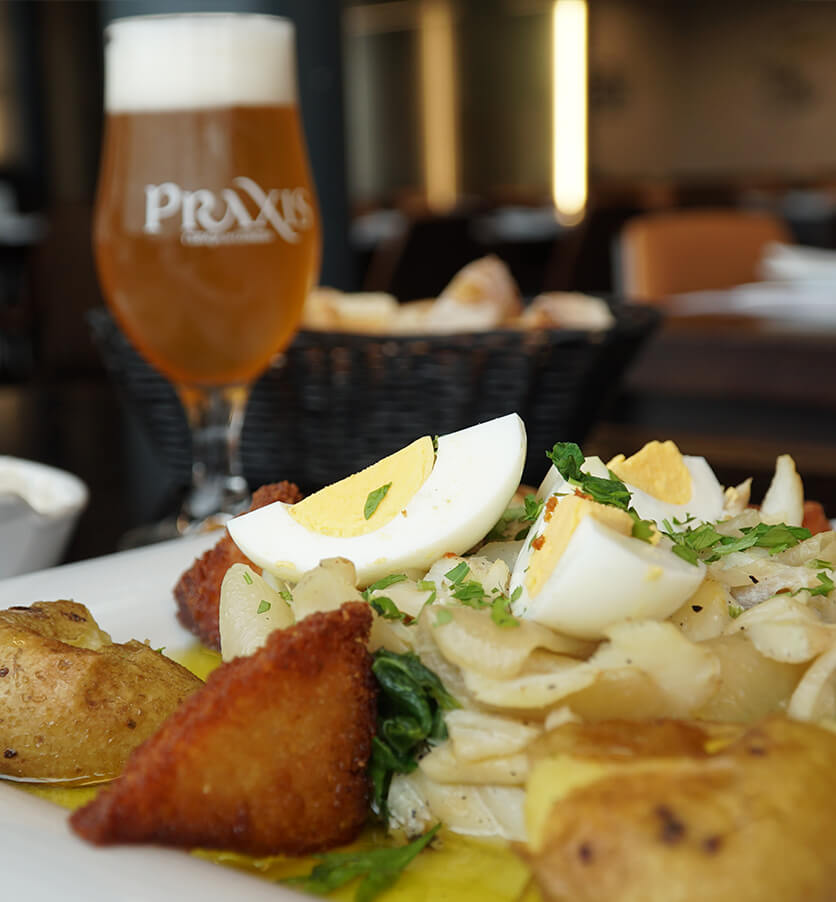
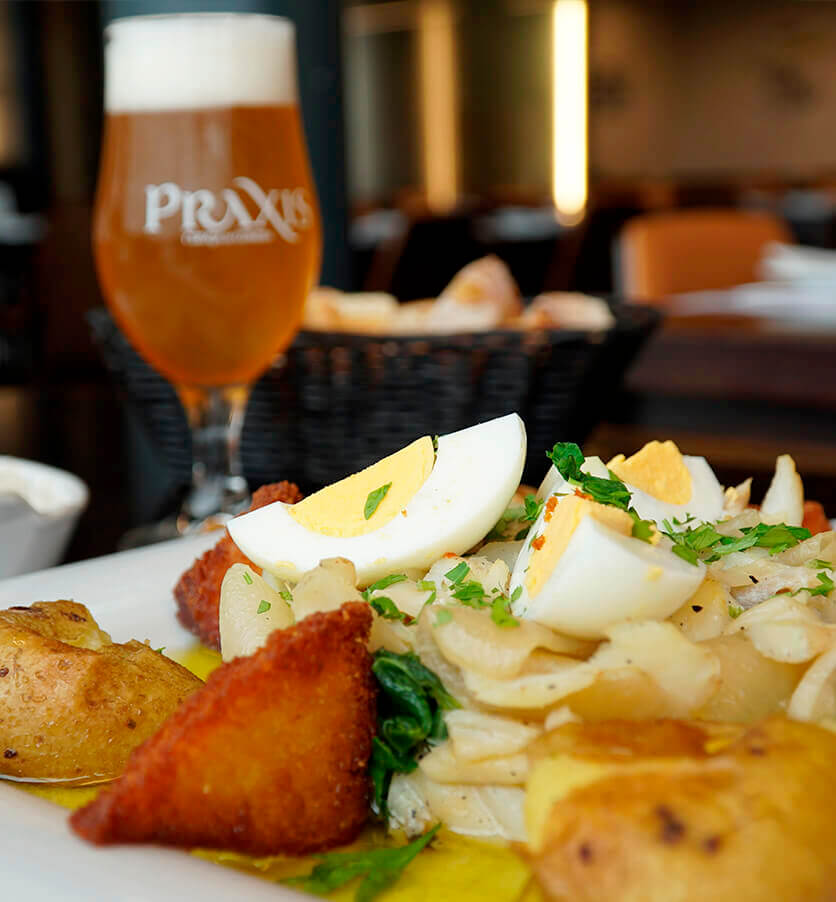
Improve some images

diff --git a/restaurant.html b/restaurant.html
@@ -281,16 +281,16 @@
                 <img src="./assets/images/img-gallery-3.jpg">
               </div>
               <div class="swiper-slide">
-                <img src="./assets/images/img-gallery-1.jpg">
+                <img src="./assets/images/img-gallery-4.jpg">
               </div>
               <div class="swiper-slide">
-                <img src="./assets/images/img-gallery-2.jpg">
+                <img src="./assets/images/img-gallery-5.jpg">
               </div>
               <div class="swiper-slide">
-                <img src="./assets/images/img-gallery-3.jpg">
+                <img src="./assets/images/img-gallery-6.jpg">
               </div>
               <div class="swiper-slide">
-                <img src="./assets/images/img-gallery-1.jpg">
+                <img src="./assets/images/img-gallery-7.jpg">
               </div>
             </div>
             <div class="swiper-pagination light-pagination"></div>
